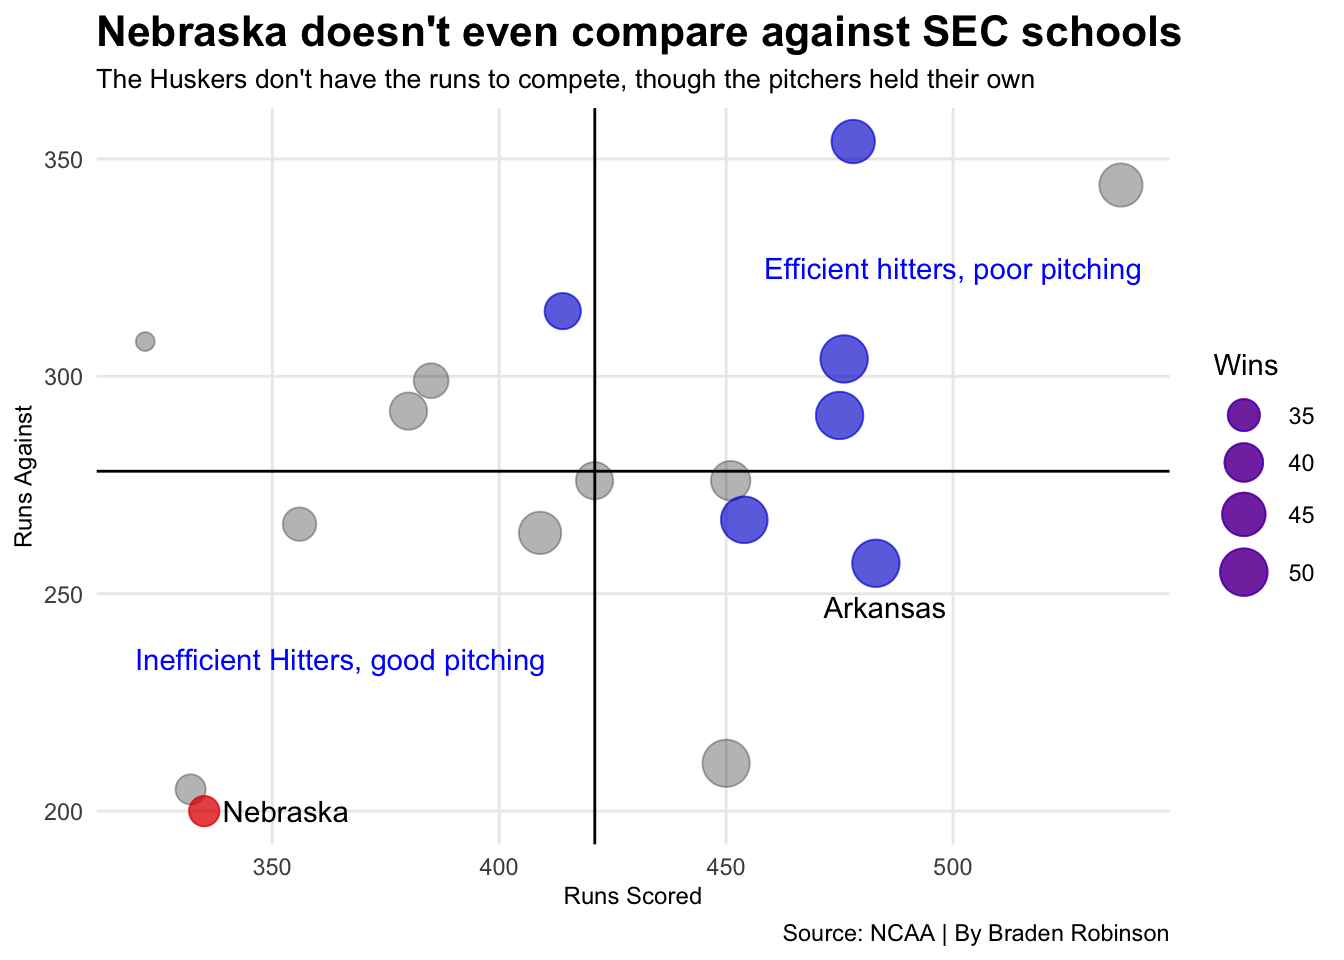
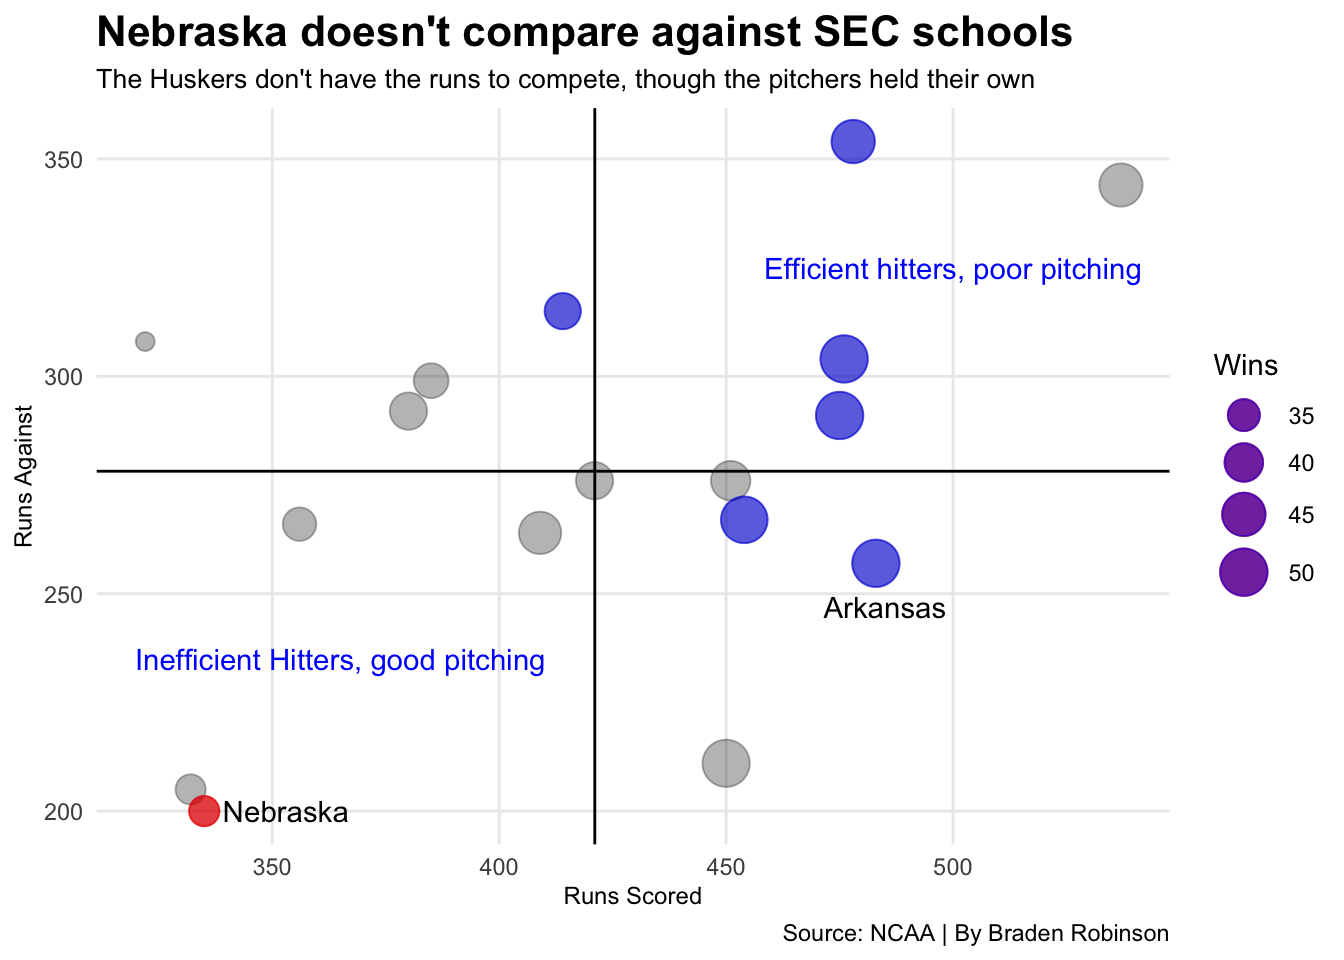
changes2

Changed region(s): [[0.3438, 0.0, 0.875, 0.0625]]

diff --git a/2021/10/12/nebraska-baseball-2020-2021/index.html b/2021/10/12/nebraska-baseball-2020-2021/index.html
@@ -178,7 +178,7 @@ sec &lt;- baseball %&gt;%  filter(Conference == &quot;SEC&quot;)</code></pre>
   labs(
     x = &quot;Runs Scored&quot;,
     y = &quot;Runs Against&quot;,
-    title = &quot;Nebraska doesn&#39;t even compare against SEC schools&quot;,
+    title = &quot;Nebraska doesn&#39;t compare against SEC schools&quot;,
     subtitle = &quot;The Huskers don&#39;t have the runs to compete, though the pitchers held their own&quot;,
     caption = &quot;Source: NCAA | By Braden Robinson&quot;
   ) +
